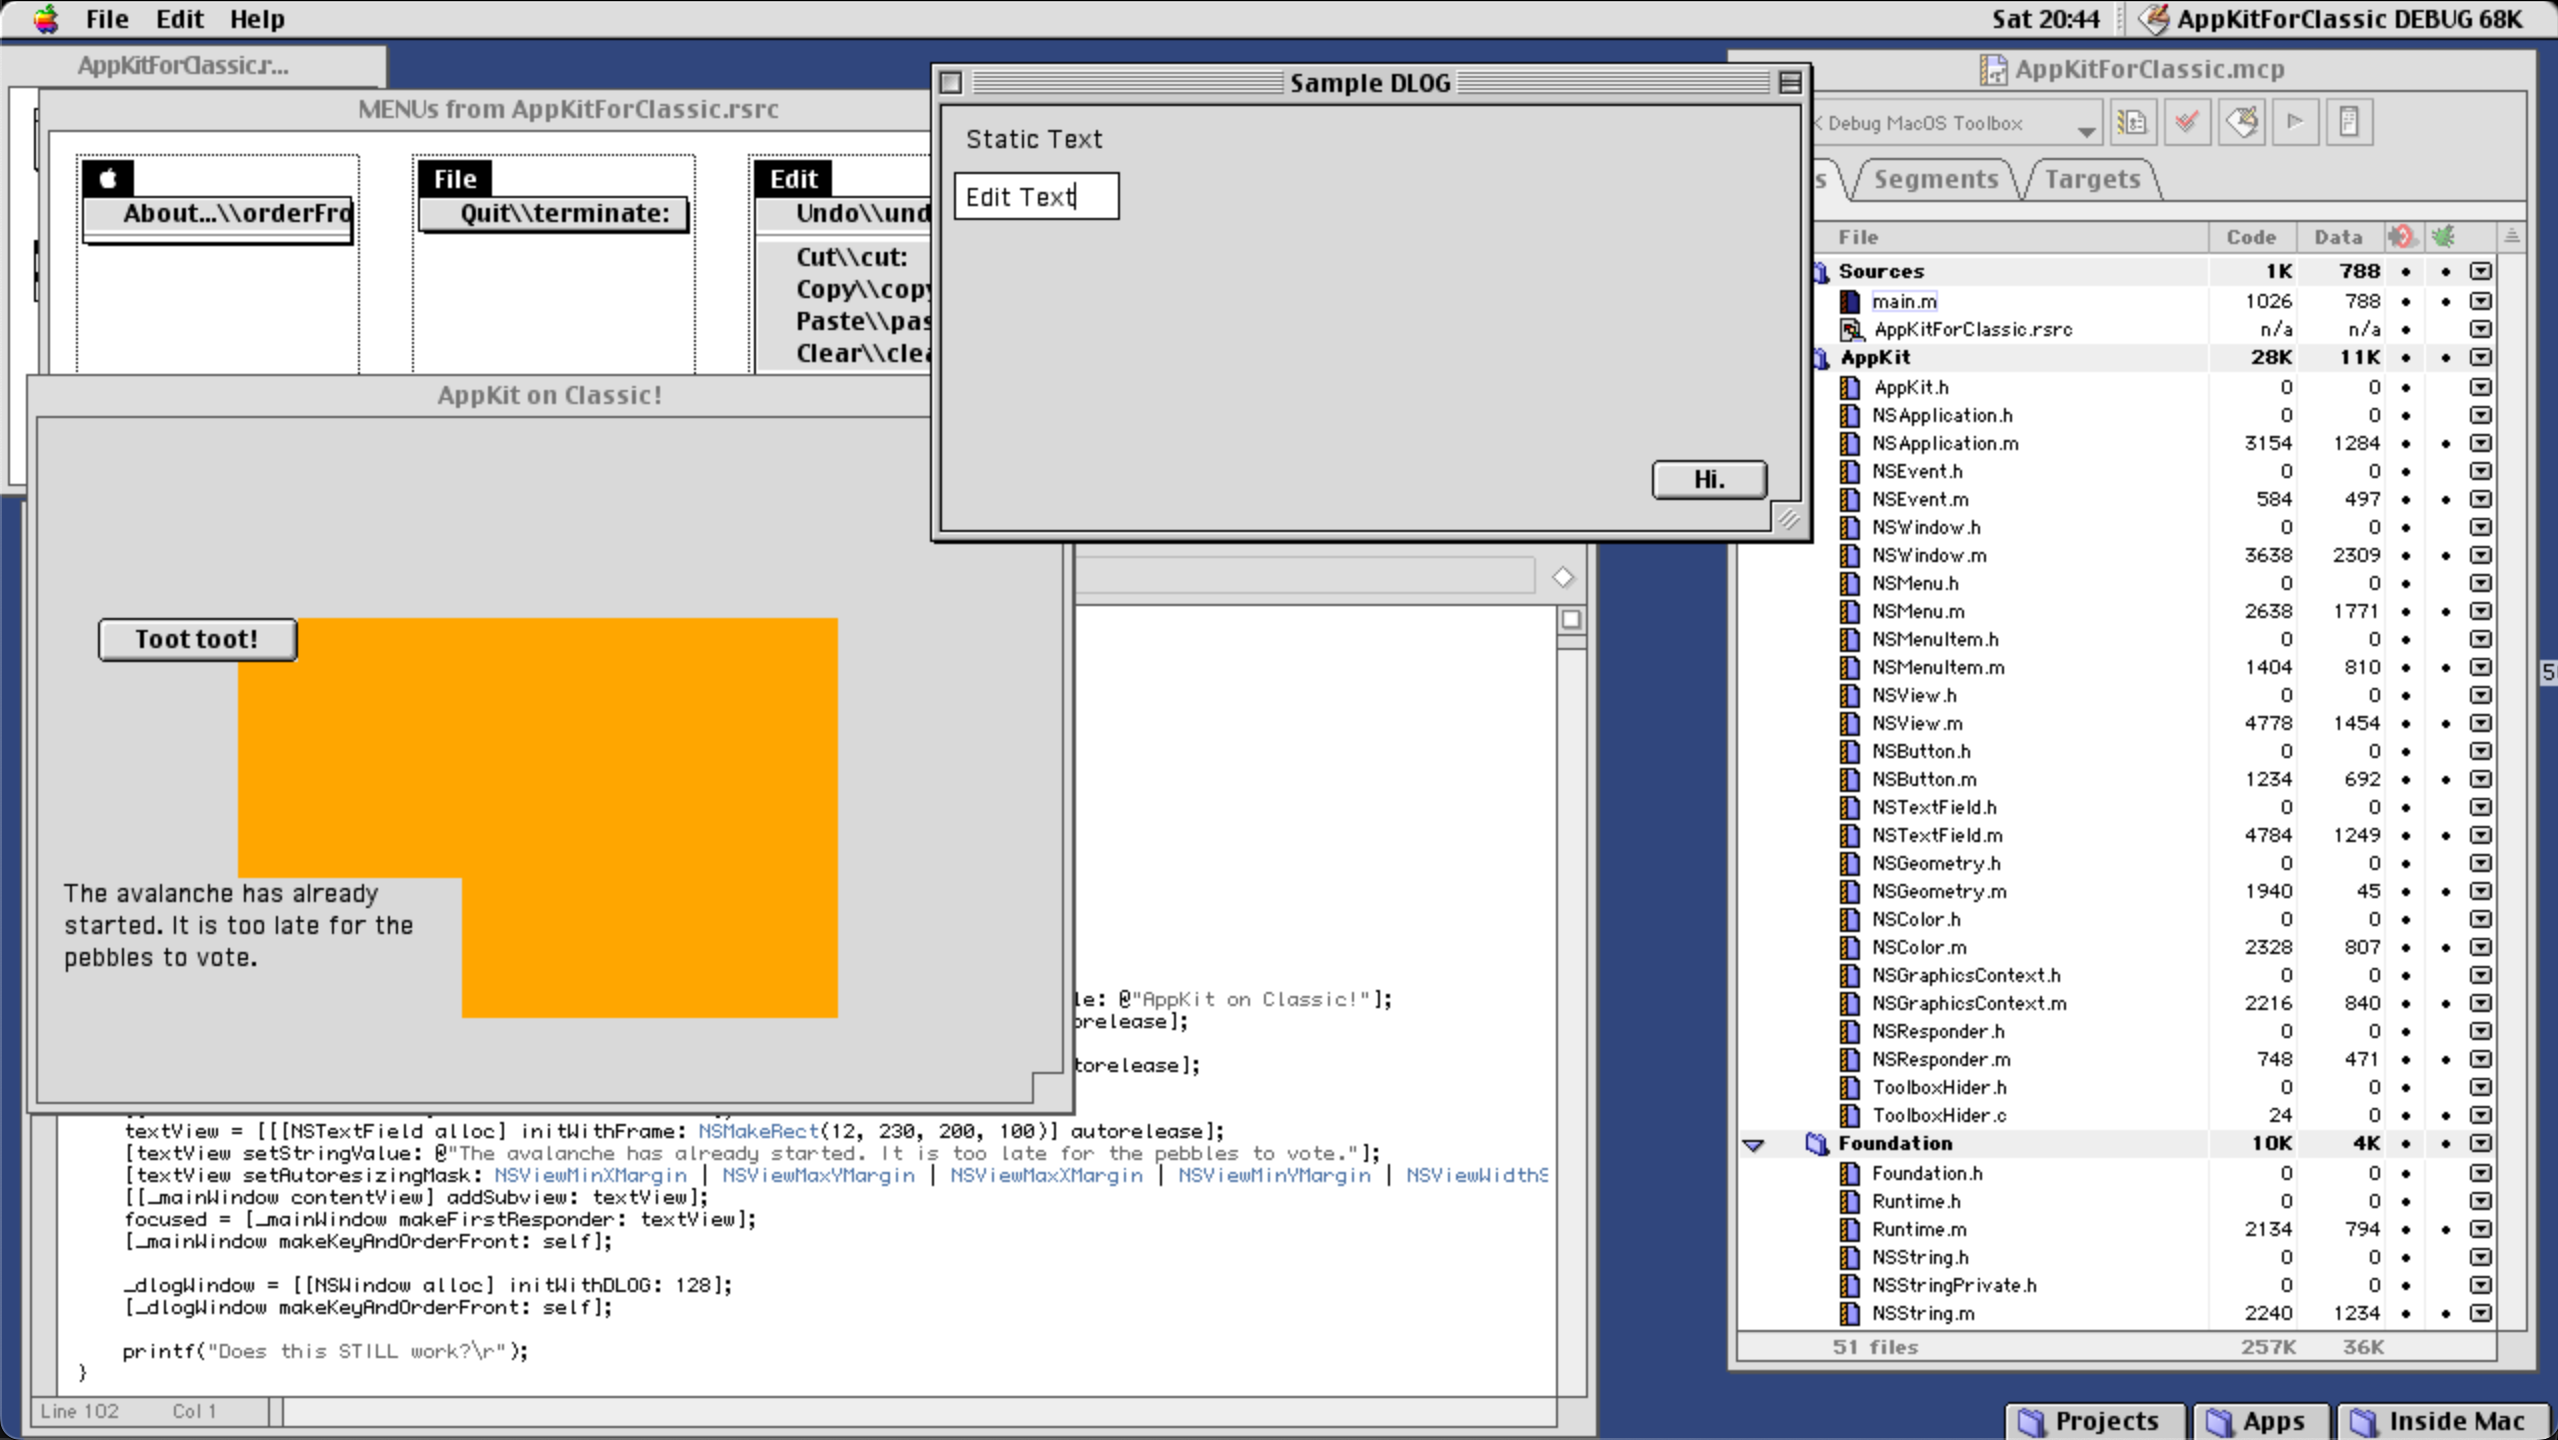
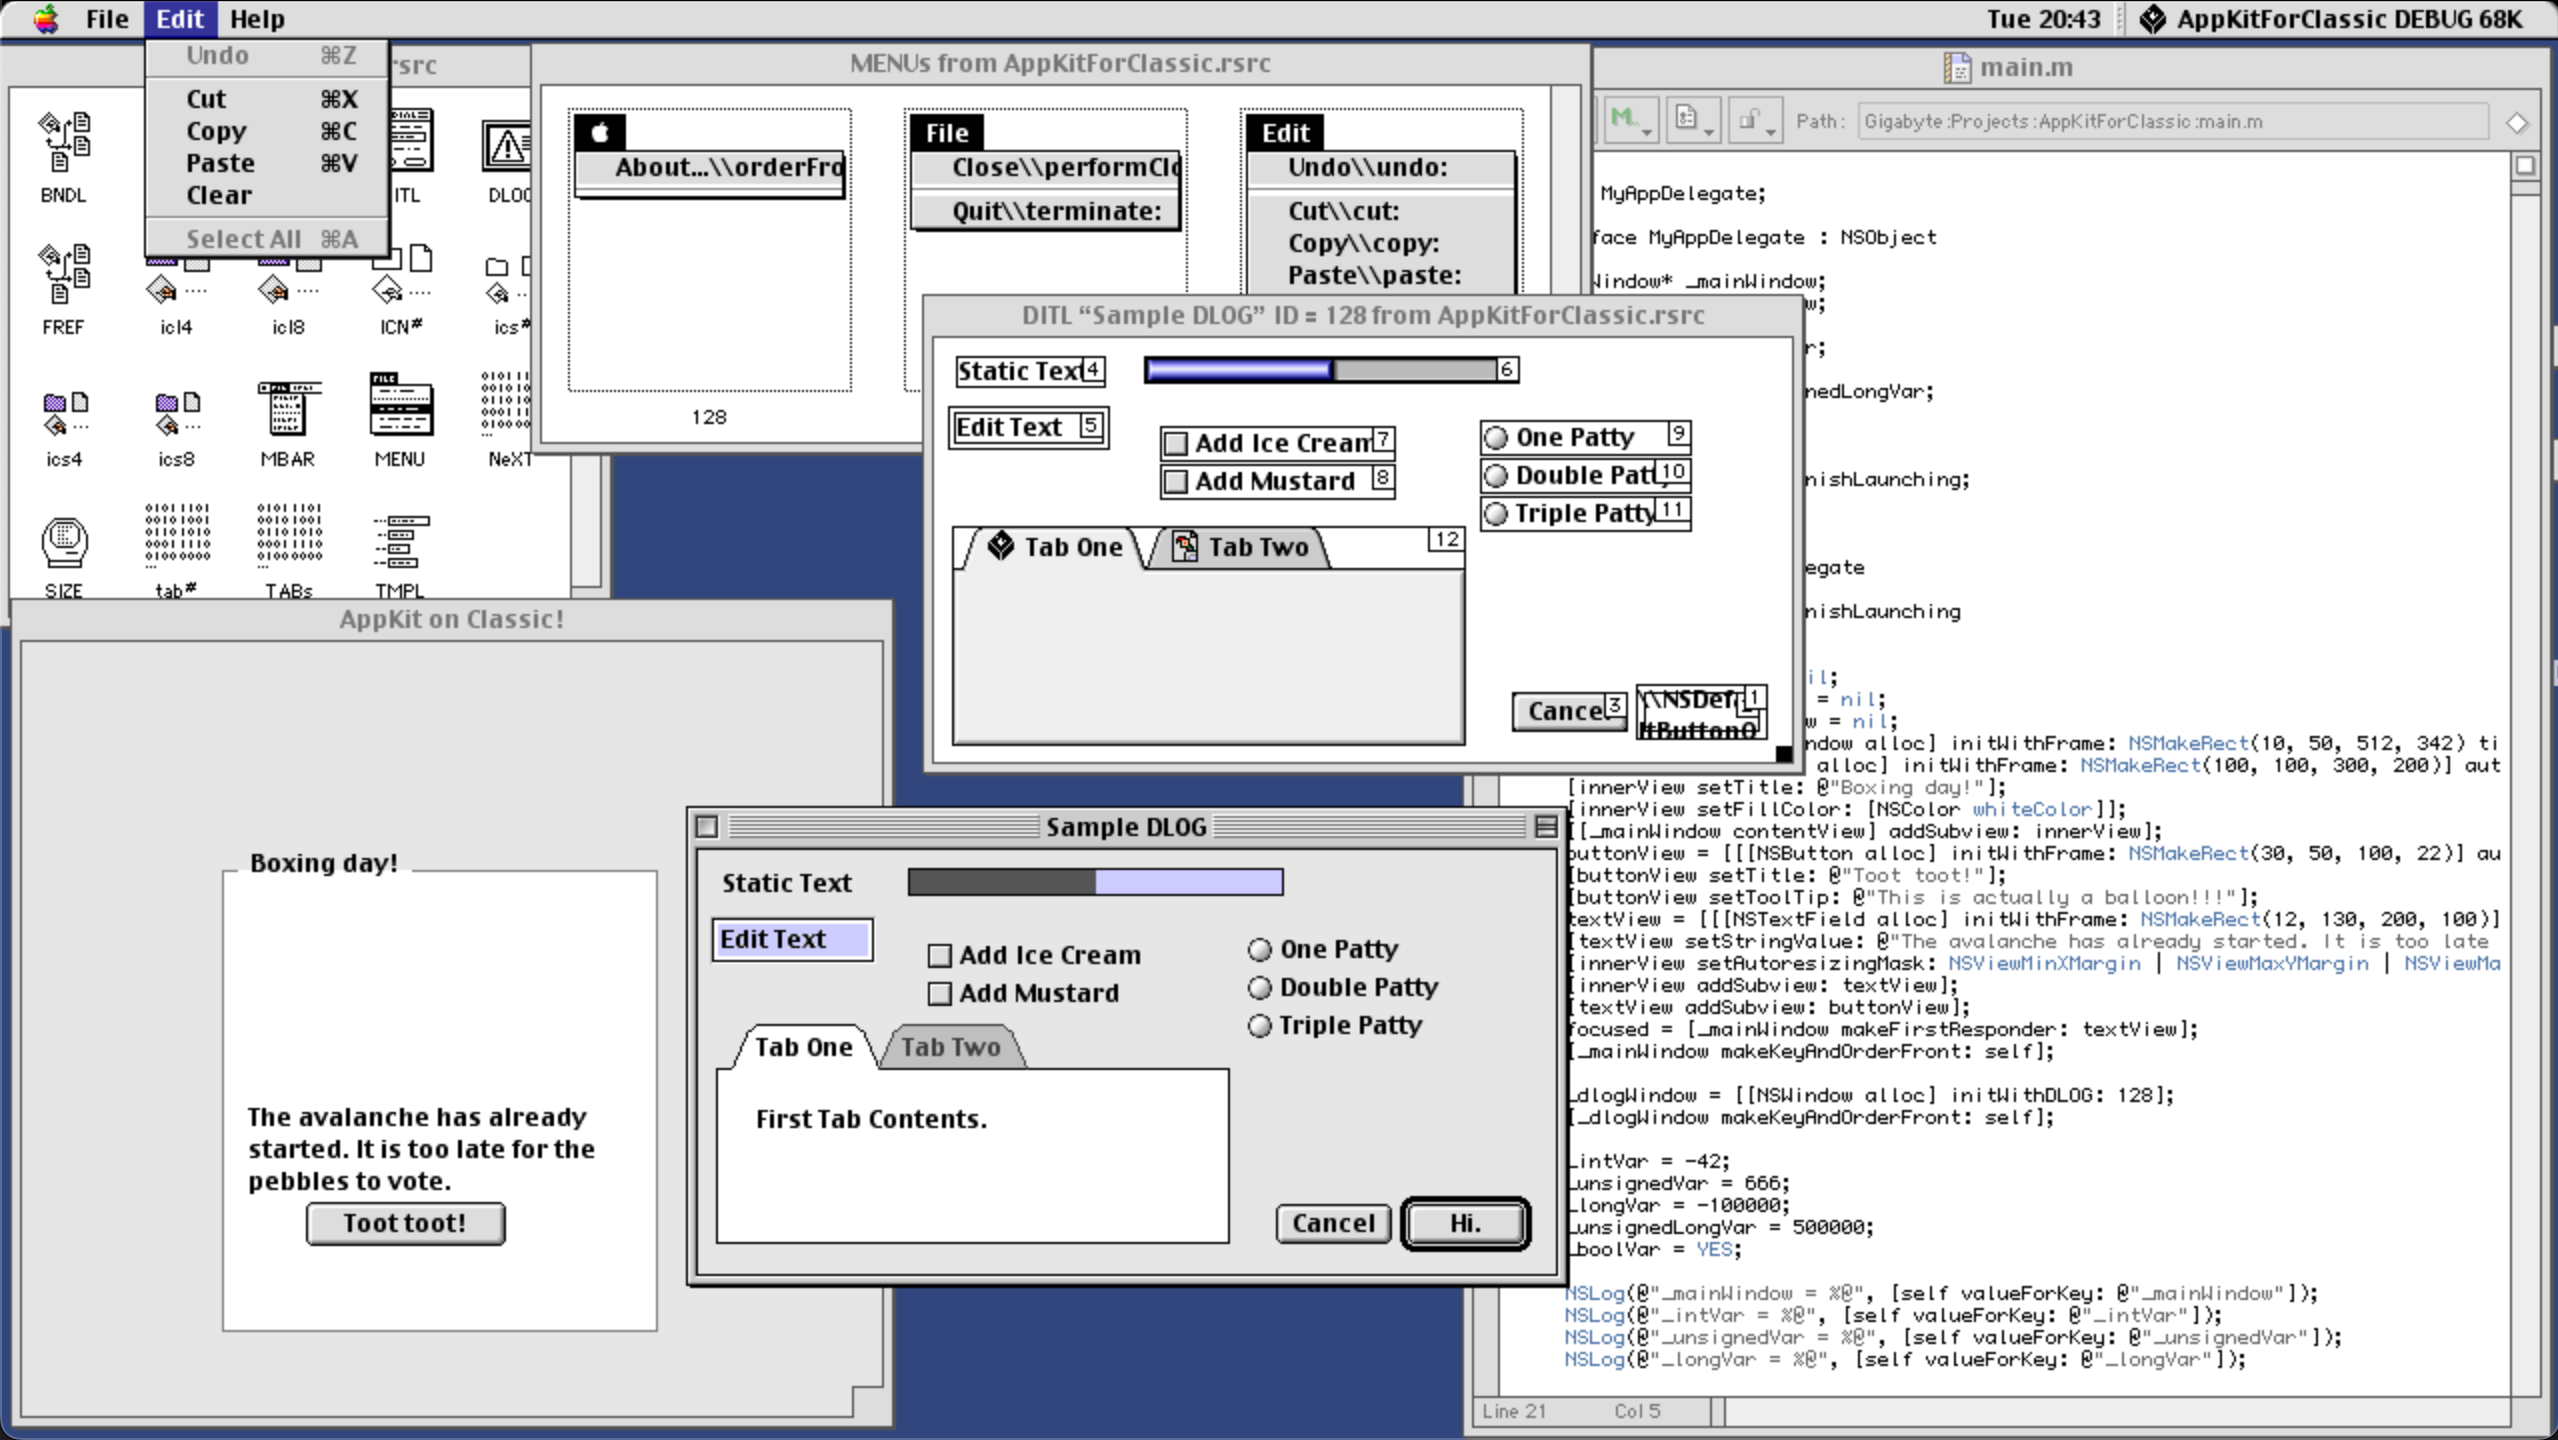
Implement indeterminate progress indicator fallback for system 7, fix timer bug, add NSBox.

diff --git a/AppKit/NSProgressIndicator.m b/AppKit/NSProgressIndicator.m
@@ -5,7 +5,7 @@
 #import "NSCursor.h"
 #import "NSApplication.h"
 #import "NSTimer.h"
-//#include <ControlDefinitions.h>
+#include <stdio.h>
 
 #define kControlProgressBarProc	80
 
@@ -58,12 +58,21 @@
 		
 		filledBox = trackBox;
 		
-		RGBForeColor(&lightBlue);
-		PaintRect(&trackBox);
+		if (!_indeterminate) {
+			RGBForeColor(&lightBlue);
+			PaintRect(&trackBox);
 
-		filledBox.right = trackBox.left +(((double) trackBox.right - trackBox.left) * percentage);
-		RGBForeColor(&darkGray);
-		PaintRect(&filledBox);
+			filledBox.right = trackBox.left +(((double) trackBox.right - trackBox.left) * percentage);
+			RGBForeColor(&darkGray);
+			PaintRect(&filledBox);
+		} else {
+			short patternID = 7000 +((TickCount() / 6) % 8);
+			PixPatHandle pattern = GetPixPat(patternID);
+			PenPixPat(pattern);
+			PaintRect(&trackBox);
+			PenPat(&qd.black);
+			DisposePixPat(pattern);
+		}
 		
 		ForeColor(blackColor);
 		FrameRect(&trackBox);
@@ -87,14 +96,32 @@
 			SetControlData(_macControl, kControlEntireControl, kControlProgressBarIndeterminateTag,
 							sizeof(Boolean), &isDefault);
 		}
+	if (!_macControl && _indeterminate && !_indeterminateAnimationTimer) {
+		_indeterminateAnimationTimer = [NSTimer scheduledTimerWithTimeInterval: 0.1 target: self selector: @selector(animate:)
+													userInfo: nil repeats: YES];
+	} else if (_indeterminateAnimationTimer && (_macControl || !_indeterminate || [self window] == nil)) {
+		[_indeterminateAnimationTimer invalidate];
+		_indeterminateAnimationTimer = nil;
 	}
 }
 
 -(void) setIndeterminate: (BOOL)state {
 	Boolean isDefault = _indeterminate;
 	_indeterminate = state;
-	SetControlData(_macControl, kControlEntireControl, kControlProgressBarIndeterminateTag,
-					sizeof(Boolean), &isDefault);
+	if (_macControl) {
+		SetControlData(_macControl, kControlEntireControl, kControlProgressBarIndeterminateTag,
+						sizeof(Boolean), &isDefault);
+	} else if (_indeterminate && [self window]) {
+		_indeterminateAnimationTimer = [NSTimer scheduledTimerWithTimeInterval: 0.1 target: self selector: @selector(animate:)
+													userInfo: nil repeats: YES];
+	} else if (!_indeterminate || [self window] == nil) {
+		[_indeterminateAnimationTimer invalidate];
+		_indeterminateAnimationTimer = nil;
+	}
+}
+
+-(void) animate: (NSTimer*)sender {
+	[self setNeedsDisplay: YES];
 }
 
 -(BOOL) isIndeterminate {

diff --git a/AppKit/NSBox.m b/AppKit/NSBox.m
@@ -1,0 +1,99 @@
+#import "NSBox.h"
+#import "NSGeometry.h"
+#import "NSGraphicsContext.h"
+#import "NSColor.h"
+#include <Quickdraw.h>
+#include <Fonts.h>
+
+#define TITLE_OFFSET 8
+#define TITLE_INNER_PADDING 6
+
+@implementation NSBox
+
+-(void) dealloc {
+	[_title release];
+	_title = nil;
+	
+	[super dealloc];
+}
+
+-(void) drawRect: (NSRect)dirtyRect {
+	NSRect boxRect = [self bounds];
+	BOOL hasTitle = _title && [_title length] > 0;
+	short textHeight = 0;
+	FontInfo fontInfo = {0};
+	
+	if (hasTitle) {
+		float titleTopOffset = 0;
+		NSRect titleArea;
+		TextFont(systemFont);
+		TextSize(12);
+		TextFace(normal);
+		GetFontInfo(&fontInfo);
+		
+		titleTopOffset = fontInfo.ascent + fontInfo.descent - 1; // -1 to ensure outline matches up with text baseline.
+		NSDivideRect(boxRect, &titleArea, &boxRect, titleTopOffset, NSMinYEdge);
+		
+		[[[self superview] backgroundColor] setFill];
+		[NSBezierPath fillRect: titleArea];
+	}
+		
+	[[self backgroundColor] setFill];
+	[NSBezierPath fillRect: boxRect];
+	[[NSColor grayColor] setStroke];
+	[NSBezierPath strokeRect: boxRect];
+	
+	if (hasTitle) {
+		Str255 titleStr = {0};
+		NSRect titleTextArea = [self bounds];
+		[_title getStr255: titleStr];
+
+		titleTextArea.origin.x += TITLE_OFFSET;
+		titleTextArea.size.width = StringWidth(titleStr) + (TITLE_INNER_PADDING * 2);
+		titleTextArea.size.height = fontInfo.ascent + fontInfo.descent + fontInfo.leading;
+		
+		[[self backgroundColor] setStroke];
+	 	[NSBezierPath strokeLineFromPoint: NSMakePoint(NSMinX(titleTextArea), NSMinY(boxRect))
+	 					toPoint: NSMakePoint(NSMaxX(titleTextArea), NSMinY(boxRect))];
+		
+		[[NSColor blackColor] setStroke];
+		MoveTo(titleTextArea.origin.x + TITLE_INNER_PADDING, NSMaxY(titleTextArea) - fontInfo.leading);
+		DrawString(titleStr);
+	}
+}
+
+-(NSColor*) backgroundColor
+{
+	if (_fillColor) {
+		return _fillColor;
+	}
+	return [[self superview] backgroundColor];
+}
+
+-(NSString*) title
+{
+	return _title;
+}
+
+-(void) setTitle: (NSString*)c
+{
+	NSString *oldTitle = _title;
+	_title = [c retain];
+	[oldTitle release];
+	[self setNeedsDisplay: YES];
+}
+
+-(NSColor*) fillColor
+{
+	return _fillColor;
+}
+
+-(void) setFillColor: (NSColor*)c
+{
+	NSColor *oldColor = _fillColor;
+	_fillColor = [c retain];
+	[oldColor release];
+	[self setNeedsDisplay: YES];
+}
+
+@end

diff --git a/Foundation/NSTimer.m b/Foundation/NSTimer.m
@@ -30,6 +30,7 @@ NSMutableArray* gScheduledTimers = nil;
 		_selector = s;
 		_userInfo = [ui retain];
 		_repeats = rep;
+		//NSLog(@"Created %@", self);
 	}
 	return self;
 }
@@ -76,6 +77,11 @@ NSMutableArray* gScheduledTimers = nil;
 	return _repeats;
 }
 
+-(NSString*) description {
+	return [NSString stringWithFormat: @"%s<%p> { fireTime = %lu, interval = %lu, action = %s }",
+										[self class]->name, self, _fireTime, _interval, (_selector ? (char*)_selector : "(null)")];
+}
+
 
 +(void) scheduleTimer: (NSTimer*)t
 {
@@ -83,6 +89,7 @@ NSMutableArray* gScheduledTimers = nil;
 		gScheduledTimers = [[NSMutableArray alloc] init];
 	}
 	
+	//NSLog(@"scheduled timer %@", t);
 	[gScheduledTimers addObject: t];
 }
 
@@ -90,17 +97,21 @@ NSMutableArray* gScheduledTimers = nil;
 {
 	unsigned long nextFireTime;
 	unsigned long currentNextFireTime;
-	unsigned count, x;
+	unsigned count;
+	int x = 0;
 	if( [gScheduledTimers count] == 0 ) {
 		return MAX_TICKS_BETWEEN_EVENT_LOOPS;
 	}
 	
 	nextFireTime = ULONG_MAX;
 	currentNextFireTime = 0;
-	count = [gScheduledTimers count], x;
-	for( x = (count -1); x < count; ++x ) {
+	
+	// Iterate backwards so we can delete timers without indexes changing under us:
+	count = [gScheduledTimers count];
+	for (x = (count -1); x >= 0; --x ) {
 		NSTimer * currentTimer = [gScheduledTimers objectAtIndex: x];
 		if( [currentTimer macFireTime] <= currentTime ) {
+			//NSLog(@"About to fire %@", currentTimer);
 			[currentTimer retain];
 			[currentTimer fire];
 			if( [currentTimer repeats] ) {
@@ -108,6 +119,7 @@ NSMutableArray* gScheduledTimers = nil;
 			} else {
 				currentNextFireTime = ULONG_MAX;
 				if( currentNextFireTime == ULONG_MAX && [gScheduledTimers objectAtIndex: x] == currentTimer ) {
+					//NSLog(@"Unscheduling %@", currentTimer);
 					[gScheduledTimers removeObjectAtIndex: x];
 				}
 			}

diff --git a/main.m b/main.m
@@ -25,11 +25,13 @@
 -(void) applicationDidFinishLaunching
 {
 	BOOL focused = NO;
-	NSView* innerView = nil;
+	NSBox* innerView = nil;
 	NSButton* buttonView = nil;
 	NSTextField* textView = nil;
 	_mainWindow = [[NSWindow alloc] initWithFrame: NSMakeRect(10, 50, 512, 342) title: @"AppKit on Classic!"];
-	innerView = [[[NSView alloc] initWithFrame: NSMakeRect(100, 100, 300, 200)] autorelease];
+	innerView = [[[NSBox alloc] initWithFrame: NSMakeRect(100, 100, 300, 200)] autorelease];
+	[innerView setTitle: @"Boxing day!"];
+	[innerView setFillColor: [NSColor whiteColor]];
 	[[_mainWindow contentView] addSubview: innerView];
 	buttonView = [[[NSButton alloc] initWithFrame: NSMakeRect(30, 50, 100, 22)] autorelease];
 	[buttonView setTitle: @"Toot toot!"];

diff --git a/AppKit/NSBox.h b/AppKit/NSBox.h
@@ -1,0 +1,16 @@
+#import "Runtime.h"
+#import "NSView.h"
+
+@interface NSBox : NSView
+{
+	NSString *_title;
+	NSColor *_fillColor;
+}
+
+-(void) setTitle: (NSString*)label;
+-(NSString*) title;
+
+-(NSColor*) fillColor;
+-(void) setFillColor: (NSColor*)c;
+
+@end

diff --git a/AppKit/NSWindow.m b/AppKit/NSWindow.m
@@ -5,7 +5,6 @@
 #import "NSGraphicsContext.h"
 #import "NSByteStream.h"
 #import "NSApplication.h"
-#import "NSView+DITLLoading.h"
 #import <MacWindows.h>
 #import <stdio.h>
 #import <Resources.h>

diff --git a/AppKit/AppKit.h b/AppKit/AppKit.h
@@ -6,6 +6,8 @@
 #import "NSView.h"
 #import "NSButton.h"
 #import "NSTextField.h"
+#import "NSTabView.h"
+#import "NSBox.h"
 #import "NSMenu.h"
 #import "NSMenuItem.h"
 #import "NSGeometry.h"

diff --git a/AppKit/NSProgressIndicator.h b/AppKit/NSProgressIndicator.h
@@ -9,6 +9,7 @@
 	double _minValue;
 	double _maxValue;
 	BOOL _indeterminate;
+	NSTimer *_indeterminateAnimationTimer;
 }
 
 -(id) initWithFrame: (NSRect)frame;
